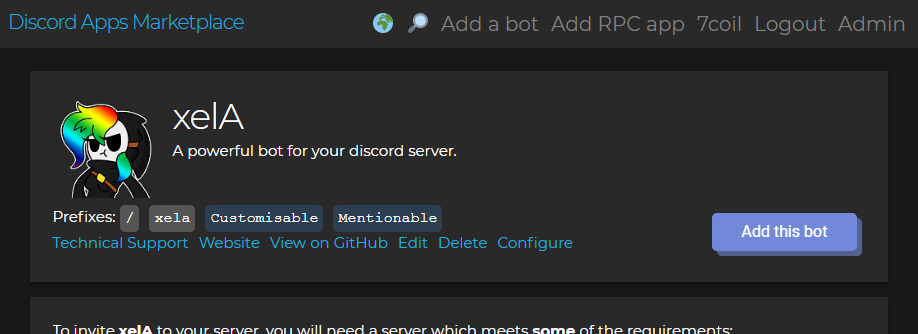
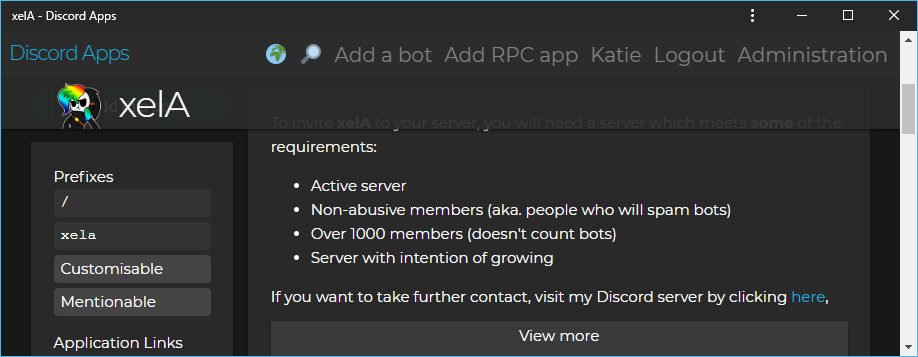
update images

diff --git a/README.md b/README.md
@@ -1,18 +1,18 @@
-# Discord Apps Marketplace
+# Discord Apps
 _curated by Terminal.ink_
 
-Discord Apps Marketplace is the next generation in Bot Listing technology,
+Discord Apps is the next generation in Bot Listing technology,
 utilising the latest web technology for the bot list of tomorrow.
 
 ## Features
 ### Progressive Web Application
 ![pwa](.github/pwa.png)
 
-Install Discord Apps Marketplace in supported Google Chrome browsers.
+Install Discord Apps in supported Google Chrome browsers.
 Service worker speeds up page loads for the fastest experience.
 
 ### Multi Language support
-![i18n](.github/languages.gif)
+![i18n](.github/languages.png)
 
 Present your ideas in more than just English.
 Make your bot page in multiple languages to target many more users.
@@ -30,7 +30,7 @@ Download the bundled code in the `dist` branch of this repo.
 
 Location                                                          | Description
 ----------------------------------------------------------------- | -----------------
-[Discord Apps Marketplace](https://discordapps.dev/)              | Production instance
+[Discord Apps](https://discordapps.dev/)                          | Production instance
 [Netlify](https://twink.netlify.com/)                             | Development instance - Always latest commit
 [GitHub Pages](https://terminal.github.io/discordapps.dev/)       | Development instance - Slower than Netlify
 [Fog Creek Software's Glitch](https://discordapps-dev.glitch.me/) | Glitch is a great website
@@ -45,7 +45,7 @@ yarn create-bundles | Package the client-side and server-side portions for deplo
 yarn start          | Run the production server
 
 ## Set up Development environment
-[Refer to the "How to set up a development instance of Discord Apps Marketplace" page on discordapps.dev](https://discordapps.dev/en-GB/posts/docs/20190416-development-instance/)
+[Refer to the "How to set up a development instance of Discord Apps" page on discordapps.dev](https://discordapps.dev/en-GB/posts/docs/20190416-development-instance/)
 
 <!--
 ## Sponsors
